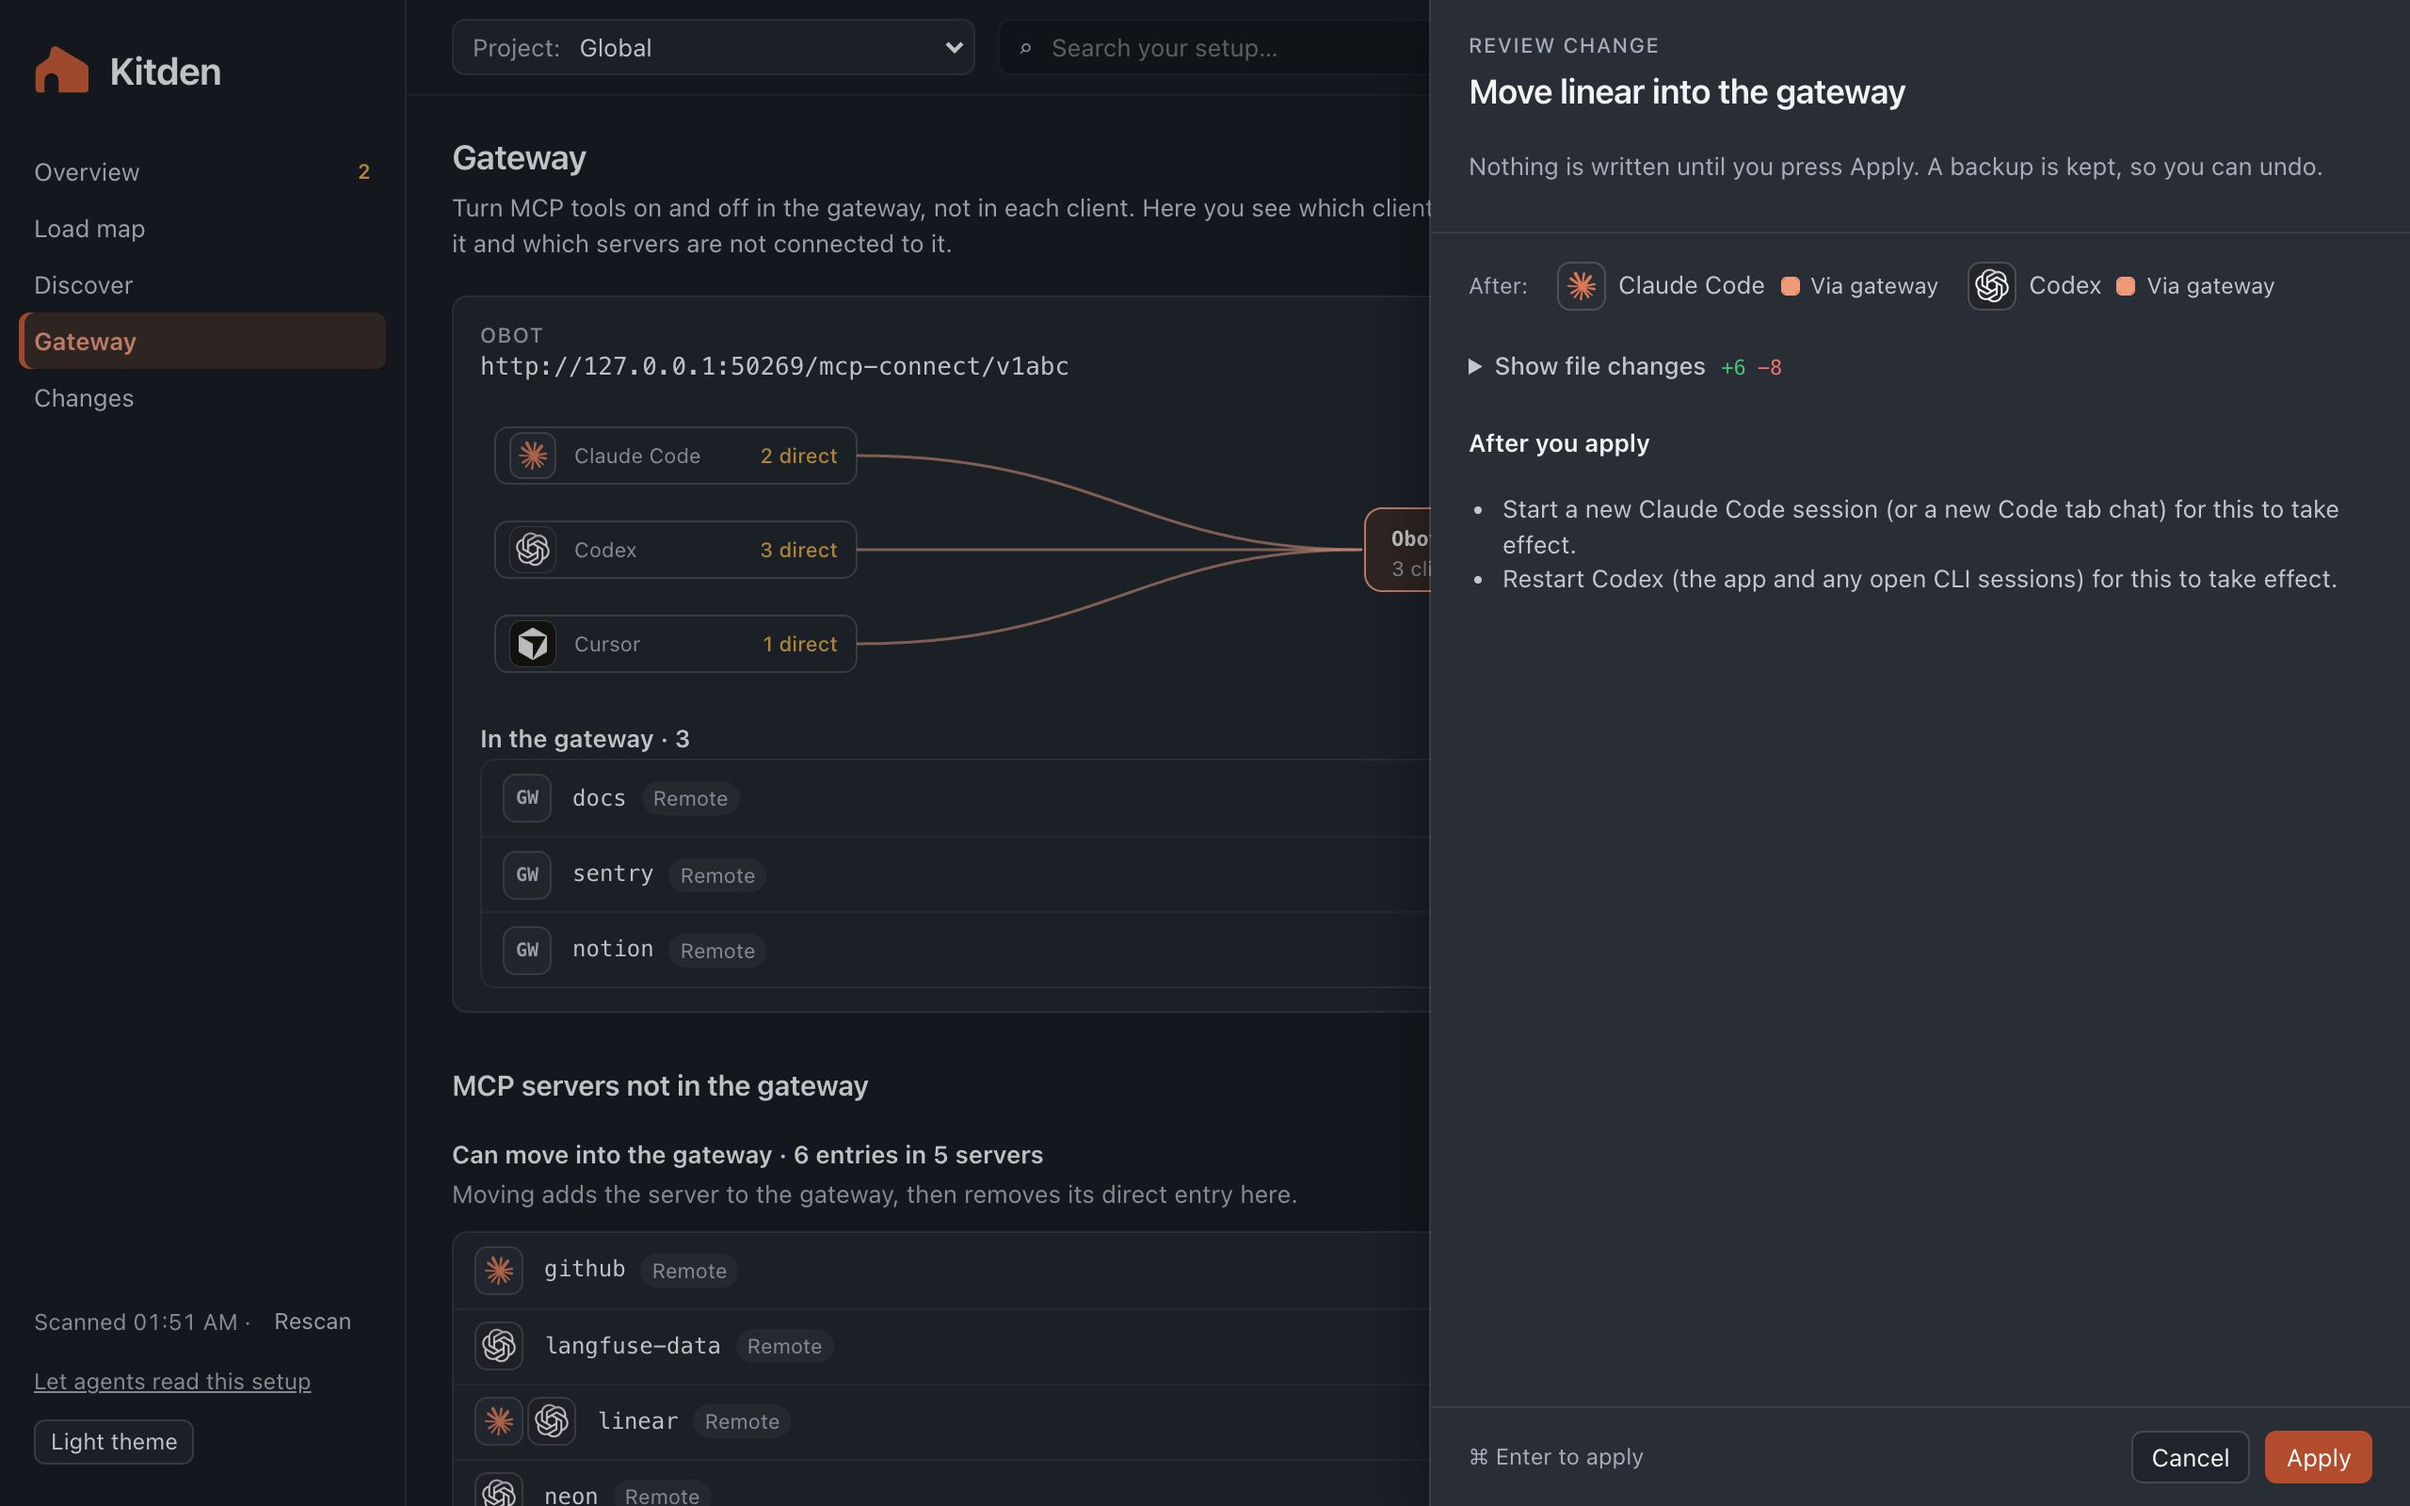
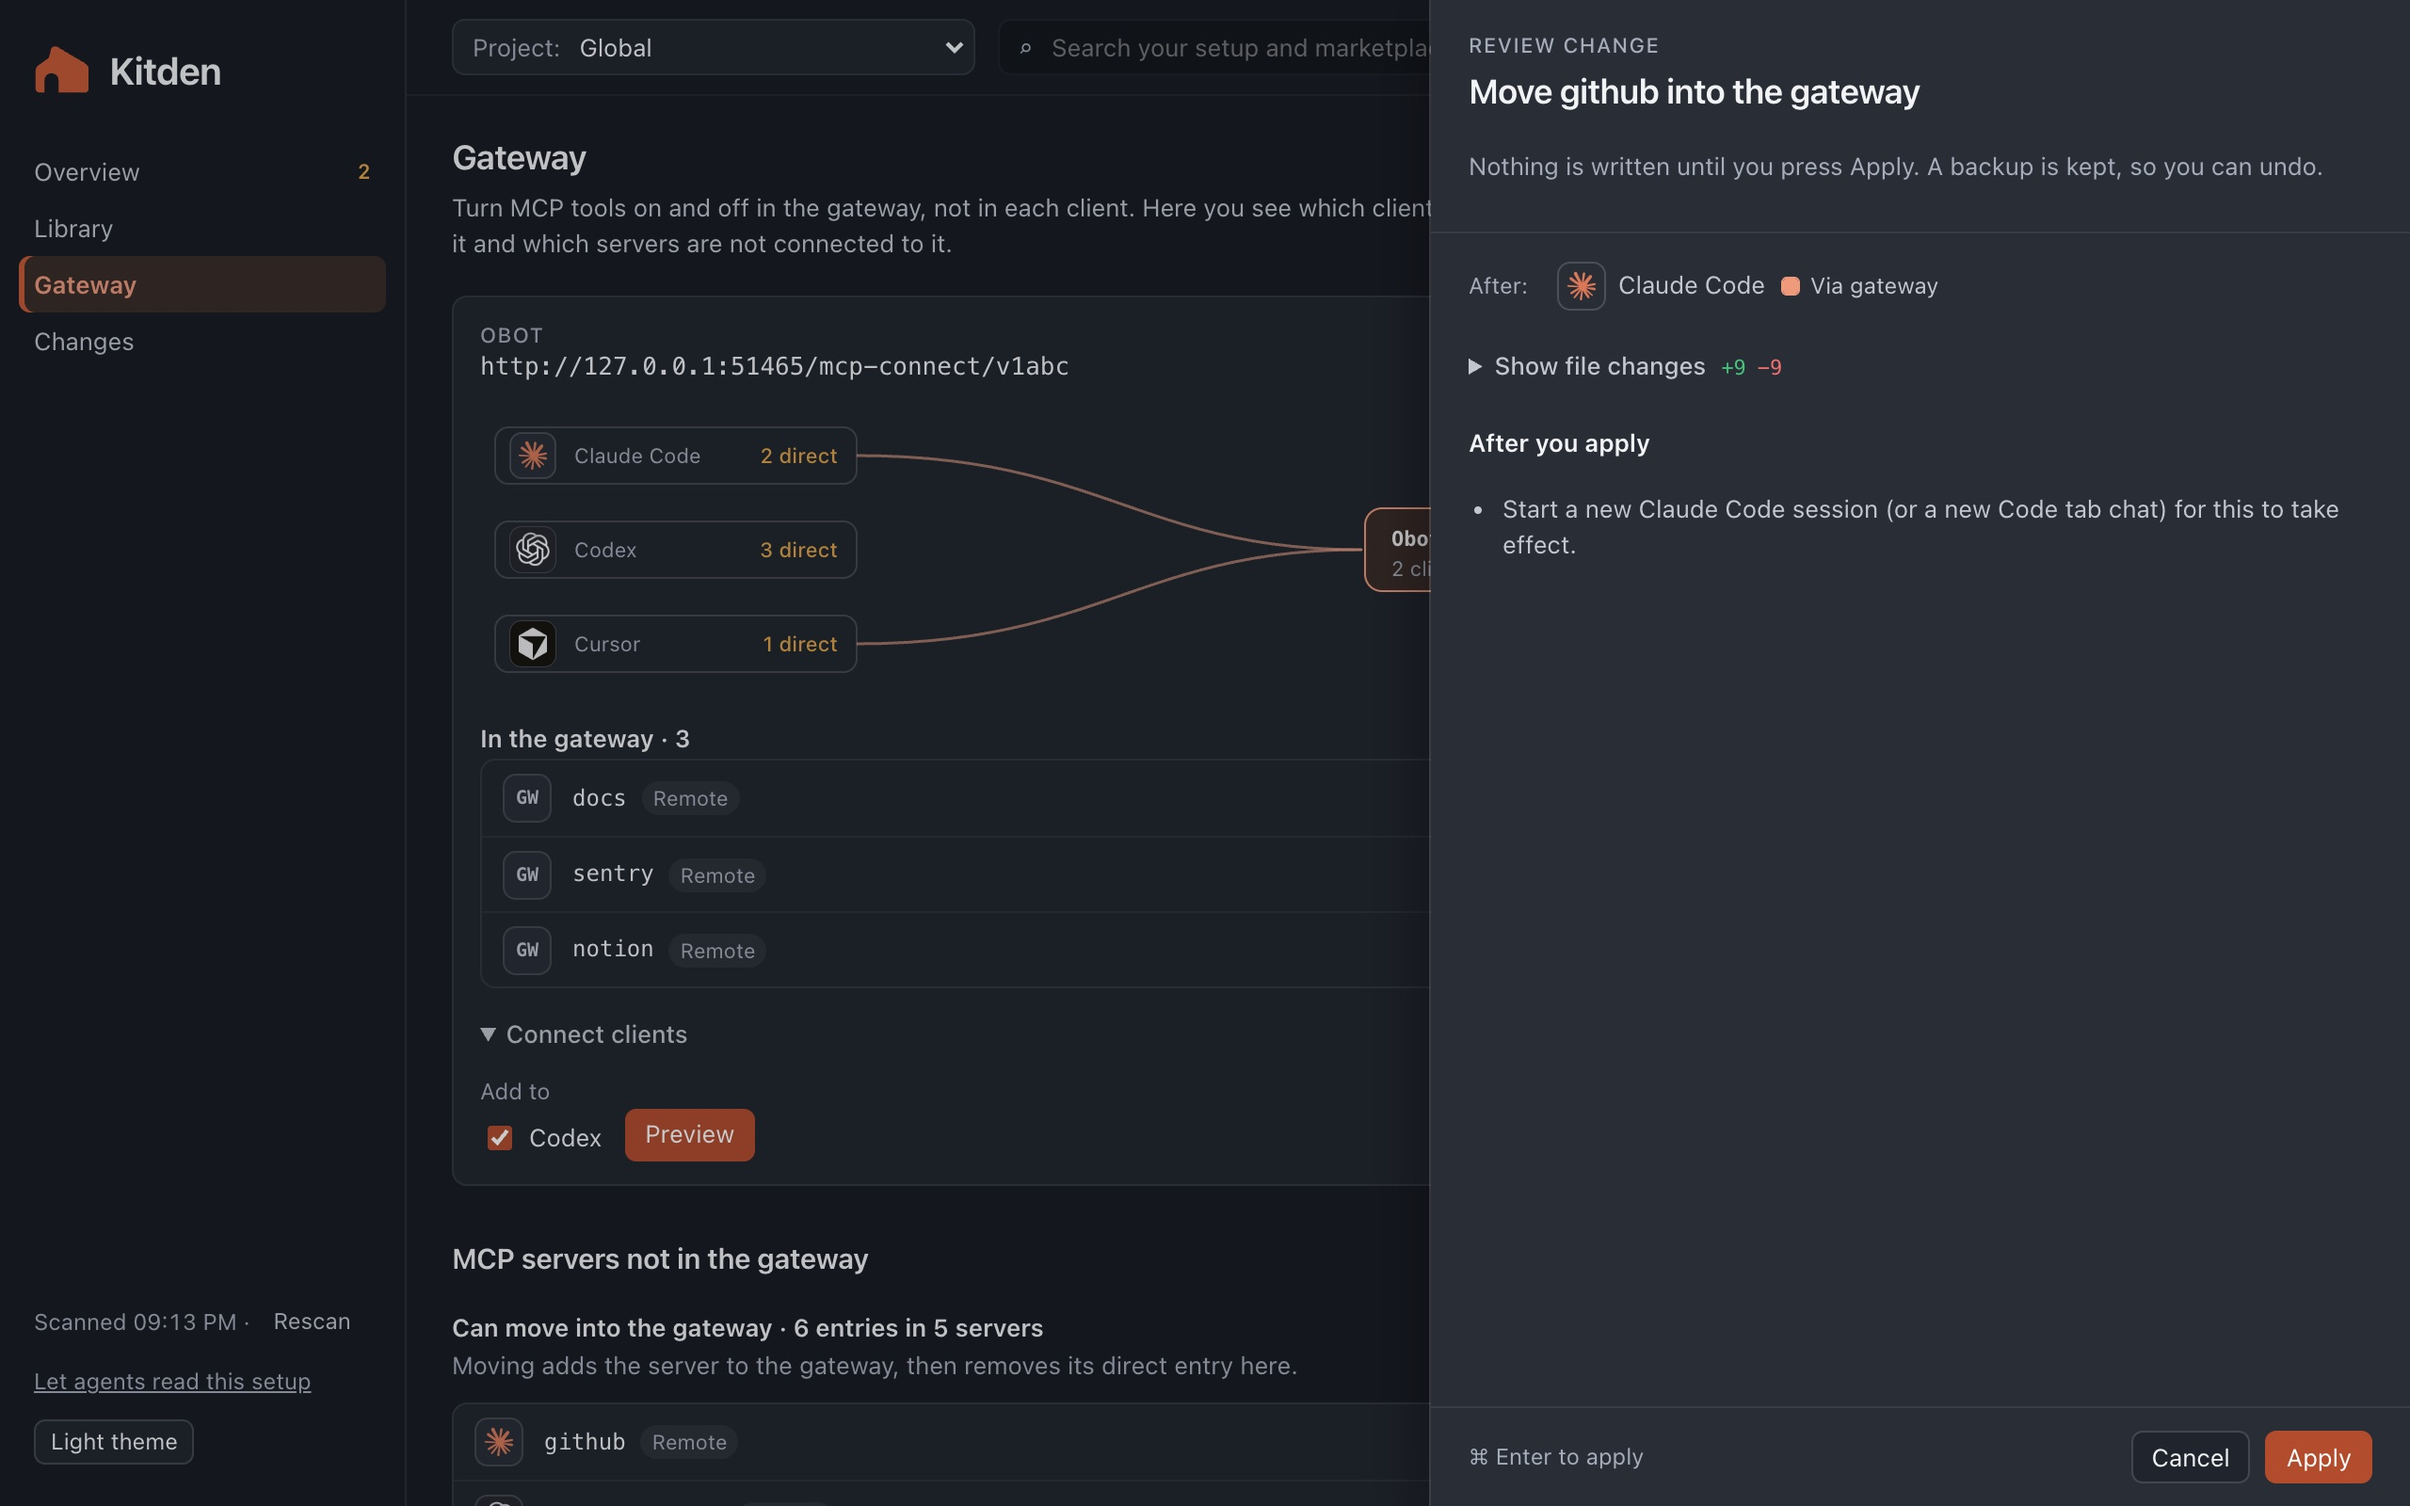
README: Overview, Gateway and review shots from the current page

diff --git a/README.md b/README.md
@@ -83,7 +83,7 @@ a change to take effect.
 <p align="center">
   <picture>
     <source media="(prefers-color-scheme: dark)" srcset="https://raw.githubusercontent.com/KonstantinStarovoytov/kitden/main/docs/images/review-dark.jpg">
-    <img src="https://raw.githubusercontent.com/KonstantinStarovoytov/kitden/main/docs/images/review.jpg" alt="The review for moving the linear server into the gateway: Claude Code and Codex will both reach it through the gateway, and what to restart" width="860">
+    <img src="https://raw.githubusercontent.com/KonstantinStarovoytov/kitden/main/docs/images/review.jpg" alt="The review for moving the github server into the gateway: Claude Code will reach it through the gateway, and what to restart" width="860">
   </picture>
 </p>
 
